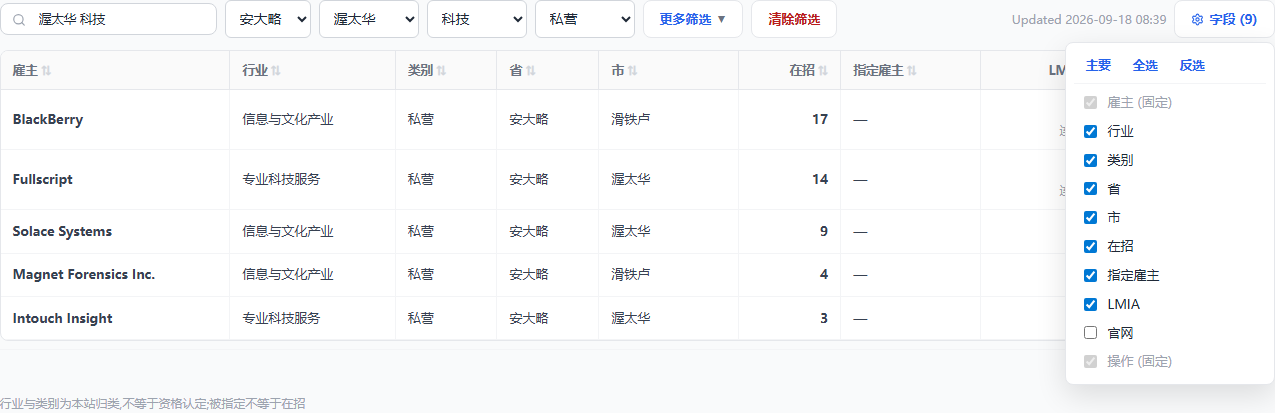
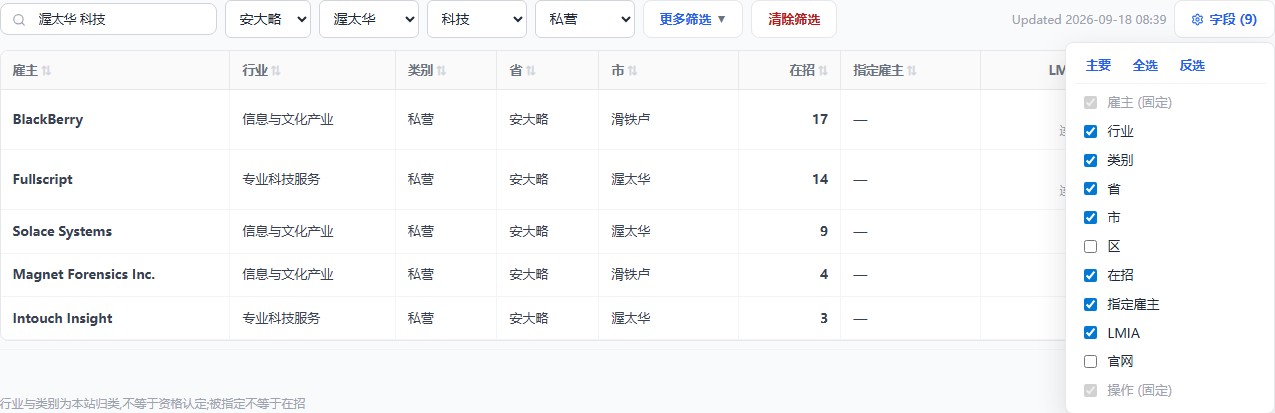
docs(design): 雇主板加「区」可选字段 + 操作列固定保留并埋点留作收费位(Frank「需要加个区吗」)[skip render]

diff --git a/docs/design/雇主分类与搜索-20260918.md b/docs/design/雇主分类与搜索-20260918.md
@@ -76,11 +76,13 @@
 
 ### 列:默认六列 + 「字段」钮自选(照职位板)
 
-默认 `雇主 / 行业 / 类别 / 省 / 市 / 在招 / 操作`(七列)。**省、市分两列**(2026-09-18 Frank「省 市 是不是分两个字段」:职位板就是两列,各自可排序;上一版「总部」一列把省码塞进灰注是把两个字段揉成一个)。值默认就是总部所在(2026-09-18 Frank「灰注去掉,默认就是总部」);提不到总部的用主场城市顶上(单地点雇主主场即总部,占池子绝大多数)。板上不出现「总部」两个字,是不是总部在公司弹框与公司页里说。筛选行尾加「字段 (n)」钮(2026-09-18 Frank「应该加一个字段按钮,可以自定义字段,类似于 job 页面」),点开面板勾选:雇主(固定)、行业、类别、省、市、在招、指定雇主、LMIA、官网、操作(固定);顶上「主要 / 全选 / 反选」三钮,选择落 cookie —— 形与行为全照职位板字段面板。
+默认 `雇主 / 行业 / 类别 / 省 / 市 / 在招 / 操作`(七列)。**省、市分两列**(2026-09-18 Frank「省 市 是不是分两个字段」:职位板就是两列,各自可排序;上一版「总部」一列把省码塞进灰注是把两个字段揉成一个)。值默认就是总部所在(2026-09-18 Frank「灰注去掉,默认就是总部」);提不到总部的用主场城市顶上(单地点雇主主场即总部,占池子绝大多数)。板上不出现「总部」两个字,是不是总部在公司弹框与公司页里说。筛选行尾加「字段 (n)」钮(2026-09-18 Frank「应该加一个字段按钮,可以自定义字段,类似于 job 页面」),点开面板勾选:雇主(固定)、行业、类别、省、市、区、在招、指定雇主、LMIA、官网、操作(固定);顶上「主要 / 全选 / 反选」三钮,选择落 cookie —— 形与行为全照职位板字段面板。
 
 - **指定雇主、LMIA 两列默认不勾**:在招雇主 35,832 家里指定的只有 455 家(1.3%,渥太华 426 家里 1 家),近两年办过 LMIA 的 3,665 家、两年都办的 996 家(2.8%),默认显着就是两整列「—」。
 - **筛了自动出列**:LMIA 下拉选了「办过 / 连续办」、或直达链接带 `program=AIP` 这类指定参数进来时,对应字段自动勾上(契约不断),用户可再手动关。
 - **实现边界**:职位板的字段面板住 jobs 桶(和冻结列、列宽机器长在一起),雇主板走通用 table 桶。按「通用形态单一出口」不许 fork —— 字段面板做进通用 table 桶(列声明加 `optional` / `fixed`,面板件 + cookie 键由桶出),雇主板先用;职位板换装过来另立搬家批,本批不动它。
+- **区默认不勾**(2026-09-18 Frank「需要加个区吗」):在招岗 48% 带区、公司 55% 有地址,默认摆出来半列是空的;但渥太华这类城市区是真维度(科技公司扎堆 Kanata),所以进字段面板可选、进「更多筛选」随城市联动、进搜索词典(「Kanata 科技」认得)—— 与职位板的区同一个待遇。
+- **操作列固定保留**(Frank「操作列可以保留,之后有人点按钮,方便我之后收费」):收费原则是事实免费、代劳收费,操作列就是将来放代劳动作的位置(盯这家、一键投…)。「看岗位」「看公司」两钮的点击本批起就埋点(`employer-act`,kind = jobs / company),以后定价有数可看。
 - 手机卡片流没有列,不出字段钮(2026-09-18 Frank「招聘地点去掉吧」:原九列的「招聘地点」撤)
 
 - 行业:只显部门中文名,不带代码灰注;推断的加「推断」灰注。
@@ -130,7 +132,7 @@
 ## 数据层
 
 - **companies** 加列:`naics_sector`(2 位)、`naics_subsector`(3 位)、`naics_method`(label / model / noc-infer)、`hq_city`、`hq_province`、`hq_source`(出处 URL,空 = 没提到);老列 `industry` 本批不动(分类清洗稿:切完消费者再退役)。
-- **employer_pool** 加列:同上六列 + `sector5`(五档)+ `lmia_continuous`(bool)。池由 seed 收尾库内重算,列随 companies 同步。
+- **employer_pool** 加列:同上六列 + `sector5`(五档)+ `lmia_continuous`(bool)+ `district`(总部地址过 mart 地点段得出,没地址的用在招岗的区多数派;渥太华社区归区照既有约定)。池由 seed 收尾库内重算,列随 companies 同步。
 - **维度表** `naics_sectors`(20 部门 + 99 子部门,三语名人工核定,归 statcan 域产物);按新维度表六步走,`docs/sql/` 手写 DDL 先行,补 `payload_locked_documents_rels` 列。
 - **类别五档**:mart 段 14 `sector_of` 在政府规则前加市镇规则;`SECTOR_GOVERNMENT` 改名 `SECTOR_PROVINCIAL`,新增 `SECTOR_MUNICIPAL`;消费者(雇主门槛判定)三档合并判「公共部门」不变。
 - **总部提取**:`etl/company` 域加一步 `hq`,qwen 读 aiBrief / description / 维基页正文提「总部所在市 + 省」,答案必须是 cities 表里的城市,提不到答空;出处落 `hq_source`。只读库里已有文本与已存 wiki_url,不为总部去抓新页(懒查询铁律)。
@@ -176,6 +178,7 @@
 14. 类别格纯文字不用胶囊(Frank「这个不需要显示胶囊」)。
 15. 加「字段」钮自选列,照职位板;指定雇主、LMIA 默认不勾,筛了自动勾(Frank「应该加一个字段按钮」)。第 12 条并入本条。
 16. 点雇主名开公司弹框,与职位板同一件(Frank「雇主弹框也加上」)。
+20. 加「区」:字段面板可选默认不勾,筛选进「更多筛选」,搜索词典认区名;操作列固定保留并埋点,留作收费位(Frank「需要加个区吗?操作列可以保留…方便我之后收费」)。
 19. 市格不带英文灰注,一格一行(Frank「英文 城市 也去掉」)。
 18. 省、市分两列,值默认就是总部,板上不标「总部」字样(Frank「省 市 是不是分两个字段」「灰注去掉,默认就是总部」)。
 17. 外框照职位板:筛选行铺灰底、表格单独白壳,白卡外框撤(Frank「也改成职位板那样」)。筛选行逐位照职位板布局;省下拉保留,城市随省联动;经验与 LMIA 进「更多筛选」(Frank「可以参考下 job 页面的布局吗」「省份筛选加了吗」)。
